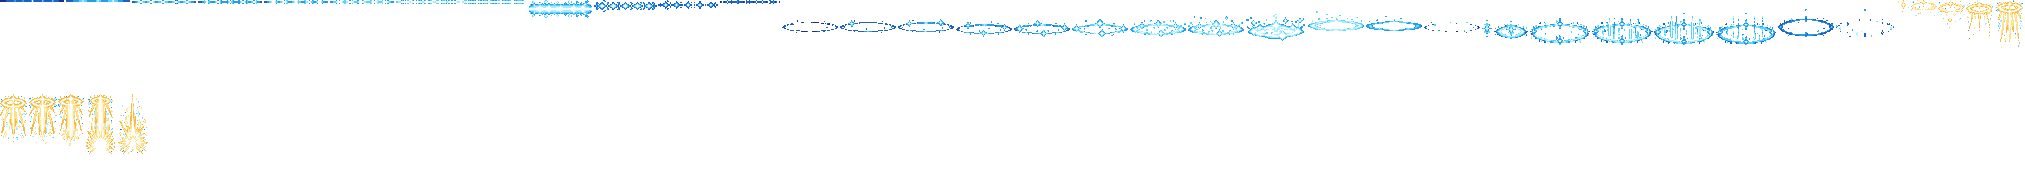
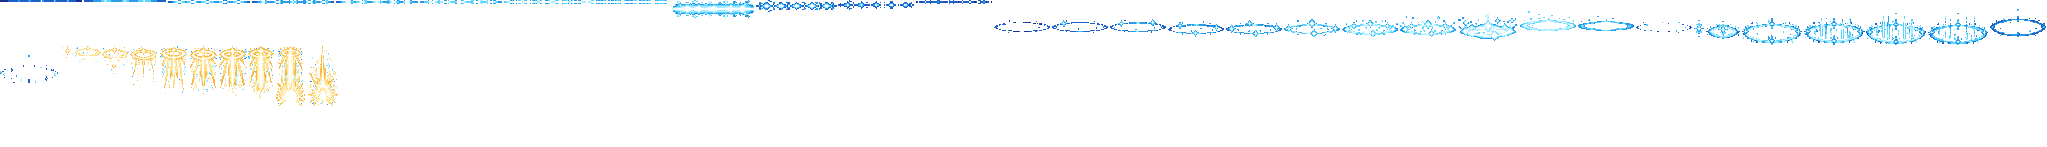
Taric: Dazzle's beam 62000 -> 80000 long
The AI casts E at the end of its range (median 73000 apart) and the
target walks out past the 62000 beam's end during the 0.75 s charge:
29% of lane-phase casts stunned the champion. At 80000 63% (whole game
34% -> 59%); the beam picture stretched to the new length.

Changed region(s): [[0.3733, 0.0, 1.0, 0.2993], [0.0, 0.3265, 0.1867, 0.7891], [0.0, 0.0, 0.4978, 0.1088]]

diff --git a/tools/art/import_taric.py b/tools/art/import_taric.py
@@ -8,7 +8,8 @@ The body comes from tools/art/export_taric.py and import_native.py. Codex drew t
 is 8x8 blocks of a 1x drawing in the cells PROMPTS.md asked for (the beam, the ally's burst and Q's circle in rows of
 four), only the pack's colours (starlight, gem violet, R's gold, the heal's mint), no half-transparent pixel. --raw
 checks that, reads the cells left to right, top to bottom and writes them as one row (assets/source/taric/
-taric_fx_<name>.png, 8x). No scaling, no palette pass and no outline (effects carry none).
+taric_fx_<name>.png, 8x). No scaling (but the beam's length, below), no palette pass and no outline (effects carry
+none).
 Placement: a point of the cell goes to a spot from the pivot (11 px over the soles), the same point in every frame
 (Codex drew each strip registered in its cells):
   - the hits (the basic attack's, Bravado's) on their cell's middle, on the upper body;
@@ -17,8 +18,10 @@ Placement: a point of the cell goes to a spot from the pivot (11 px over the sol
     column on the pivot;
   - the ground rings (Q's circle, the ally's Dazzle burst, the link's sigil) with their ellipse's middle 2 px over
     the soles (a ring round the feet);
-  - the beam, the picture of a LineRangeProjectile, centred on its 62000 rectangle and turned with it (champion-data
-    "Cone / fan"): the cell's middle on the rectangle's, its 62 drawn px from Taric to the line's end;
+  - the beam, the picture of a LineRangeProjectile, centred on its rectangle and turned with it (champion-data
+    "Cone / fan"): the cell's middle on the rectangle's. Codex drew it for a 62000 line (62 px from Taric to the
+    line's end); the sheet stretches it along the line to the kit's length (E_LENGTH, 1 px per 1000, each column
+    taken from the nearest drawn one), so it still reaches from Taric to the end;
   - the gem that flies to the ally on its violet stone (the trail behind it);
   - R's call with its cell's bottom middle on the soles (the halo high over the head).
 Durations follow the kit (league/champion/league_taric.data_champion): the beam charges in frames 1-8 for the 44
@@ -151,6 +154,16 @@ E_HIT = 44                             # the beam's hit: apply 45 - 1 ticks afte
 E_ALLY_HIT = 42                        # the ally's zone: apply 43 - 1, started 2 ticks after the beam
 STUN = 75                              # the stun's ticks
 R_WAIT = 150                           # R's call to the invulnerability
+E_DRAWN = 62000                        # the beam's length in Codex's drawing (64 px with its two end pixels)
+E_LENGTH = 80000                       # the beam's `length` in the kit
+
+
+def stretch_beam(frame):
+    """A beam frame drawn for E_DRAWN stretched along the line to E_LENGTH (1 px per 1000): each new column is the
+    nearest drawn one, so a few columns repeat and nothing is blended."""
+    w = frame.shape[1]
+    nw = w + round((E_LENGTH - E_DRAWN) / 1000)
+    return frame[:, ((np.arange(nw) + 0.5) * w / nw).astype(int)]
 
 # sprite: {tag: (strip, ms per frame)}
 FX = {
@@ -181,6 +194,8 @@ def build():
         out = {}
         for tag, (src, ms) in tags.items():
             fr = cells(src)
+            if src == "e_beam":
+                fr = [stretch_beam(f) for f in fr]
             if len(fr) != len(ms):
                 sys.exit(f"{src}: {len(fr)} frames, {len(ms)} durations")
             (ax, ay), (sx, sy) = spots(src, fr)

diff --git a/tools/art/preview_taric.py b/tools/art/preview_taric.py
@@ -124,7 +124,7 @@ def showcase(out, z=3, step=40):
     # Dazzle, on tick 12: the beam charges along the ground and bursts 44 ticks later on Darius (stunned 75 ticks);
     # round Ashe the link's burst starts 2 ticks later and hits on the same tick: Garen, beside her, is stunned too
     cast = t + tick(12)
-    fx_at(big, "e_beam", cast, x + 31, gy, ground=True)
+    fx_at(big, "e_beam", cast, x + 40, gy, ground=True)              # the middle of the 80000 line
     burst = cast + tick(44)
     fx_at(big, "e_ally", cast + tick(LINK), xa, ya, ground=True)
     for foe in (d, g):

diff --git a/README.md b/README.md
@@ -1375,7 +1375,7 @@ python tools/art/preview_veigar.py
 | 定位 | 辅助（Util），第七组的辅助；本包第七个辅助（索拉卡、蕾欧娜、迦娜、锤石、莫甘娜、娜美之后），第一个把自己的技能通过灵链在队友身边再放一次的辅助 |
 | 普攻 | 挥斧锤砸，100% 攻击力的物理伤害，射程 25000，攻击间隔 80 tick（1.33 秒），第 10 tick 命中（动作第 3 帧） |
 | 被动 | 「正气凌人」（用户选的 A：英雄联盟原版的循环）：每放一个技能（E、Q/W、R 起手），接下来 4 秒内的两次普攻攻速 +100%，改播强化挥击（第 9 tick 命中），额外造成 30 + 20% 法术强度 + 3% 最大生命值的魔法伤害（英雄联盟按护甲加伤害，这个游戏读不到护甲，换成最大生命值），加一层星光之触，并把基础技能的冷却缩短约 1 秒。这个游戏没有"减少冷却"的效果：`skill_cooldown_mult` 只是在生效时把剩余冷却压到上限 冷却 × 100 / (100 + mult)，而第一次强化普攻在放技能后 70–120 tick 才打出来，每下 +20 的话一整局模拟里只缩短过一次。改成两下分别加 2 tick 的 55 和 145（E 冷却 420 tick：第一下 337 → 270，第二下 228 → 171），同一个 buff 带相反数的 `ult_cooldown_mult`，大招不受影响；冷却缩短生效后同一批模拟从 +0.97 到 +1.68 |
-| 技能1 | E「炫光」（用户选的 A：现版的延迟光束）：60000 内有敌人时放（小兵和野怪也算，清线、打野也用；射程内有敌方英雄时朝英雄放，莫甘娜 Q 的做法），冷却 7 秒。第 12 tick 在地上射出一道长 62000、宽 18000 的星光，0.75 秒后整条线爆开：95 + 60% 法术强度 + 2% 最大生命值的魔法伤害，晕眩 1.25 秒。英雄联盟是 1 秒后爆开、宽 12000：这个游戏的英雄一秒就走出线，模拟里瞄准英雄的 E 只晕到 24%；0.75 秒、宽 18000 晕到 65% |
+| 技能1 | E「炫光」（用户选的 A：现版的延迟光束）：60000 内有敌人时放（小兵和野怪也算，清线、打野也用；射程内有敌方英雄时朝英雄放，莫甘娜 Q 的做法），冷却 7 秒。第 12 tick 在地上射出一道长 80000、宽 18000 的星光，0.75 秒后整条线爆开：95 + 60% 法术强度 + 2% 最大生命值的魔法伤害，晕眩 1.25 秒。英雄联盟是 1 秒后爆开、宽 12000：这个游戏的英雄一秒就走出线，改成 0.75 秒、宽 18000（当时的统计：瞄准英雄的 E 从 24% 到 65%）。光束原来长 62000，用户试玩时对线一次都晕不到（"AI判定都躲了"）：AI 在射程 60000 加两人身体的距离上就放（中位 73000，已经在光束尽头外），被瞄准的英雄在蓄力的 0.75 秒里往后退约 23000（放之前的 0.75 秒里基本不动），从光束尽头走出去，几乎没有往旁边躲的；逐次核对被瞄准的那个英雄，对线期（前 3 分钟）只晕到 29%，整局 34%。加长到 80000（够到 AI 放 E 的距离）后对线期 63%、整局 59%（中路 68% / 59%）；同一批里 72000 是 48% / 48%，加宽到 30000 是 58% / 58%，0.5 秒爆开是 59% / 60%。判定是离这条线段"宽度 + 约 15000"以内的英雄（两头是圆的），所以宽度管的是半边，画面比判定窄；加长只改判定和光束画面，说明文字不用改 |
 | 技能2 | Q「星光之触」，合并 W「坚毅壁垒」（用户选的 A：带灵链）。Q：30000 内有敌人时放，冷却 6 秒。离上次加层每过 5 秒攒一层（最多 3 层，在他行动时结算），强化普攻每下也加一层；Q 用掉全部层数，给自己和 30000 内的友方英雄每层回复 40 + 12% 法术强度的生命。它只回血，按对英雄放（45000）AI 每局只放 6 次，改成附近有敌人就放后每局约 21 次。W：同一次施放里、W 自己的 12 秒冷却好了时，给 60000 内随机一名友方英雄飞一颗宝石：护盾 80 + 40% 法术强度（2.5 秒），12 秒内护甲 +15，和塔里克连上灵链。灵链期间塔里克的 Q 回血、E 爆开和 R 无敌也在那名队友身边放一次（两人相距 30000–110000 时：英雄联盟的灵链 1300 码断开；队友贴着他时已经在他自己的范围里）。模拟每局英雄治疗约 31.7 次来自 Q 本身、8.4 次来自灵链，灵链的 E 每局爆开约 1.6 次 |
 | 大招 | R「宇宙之辉」（用户选的 A：原版的 2.5 秒召唤加 2.5 秒无敌）：冷却 60 秒。60000 内有敌方英雄时先"待发"10 秒（锐雯 R 的做法：大招格子是 3 tick 的空动作，加一个待发标记；没放出去就退回冷却）；待发期间他每次行动和每 0.5 秒数一次 45000 内的敌方英雄、看有没有被控的友方英雄（凯尔 R 的数法）：两名敌方英雄或一名被控的队友就放。举锤召唤星光，2.5 秒后自己和 40000 内的友方英雄（灵链队友身边也算）无敌 2.5 秒（受到的每下伤害只剩 1；两个无敌 buff 叠在一起也是 1）。每局约放 1.25 次，每次护住约 2.1 名英雄 |
 | 数值 | 攻击 75（+6）、法术强度 30（+15）、生命 1080（+110）、护甲 36（+9）、魔抗 26（+4）、移速 1000（+10），攻击间隔 1.33 秒。数值是自己设计的，用 SDK 对战模拟调：打辅助，对 5 个原版辅助（`priest`、`bard`、`enchanter`、`monk`、`taoist`），两边、三套队友阵容各 24 局，一批 720 局。初稿 −0.80；E 的延迟和宽度、Q 的施放条件改好后 +0.97；正气凌人真正缩短冷却后 +1.68，数值削回后两批 +0.77 / +0.80（同两批娜美 +0.96 / +0.60）。塔里克每局放 E 约 49 次（瞄准英雄约 19 次）、Q 约 21 次 |
@@ -1403,7 +1403,7 @@ python tools/art/preview_taric.py
 - 头（用户看待机和动图时指出三处）：第一版待机是定稿原画删行删列缩到 40 行（锐雯、阿卡丽的做法，脸那几行不删），头有 16 行，Codex 画的动作整体等比缩小后头只有 11–12 行，一放技能头就变大小（"塔里克放技能头还会变大？"）：待机改用 Codex 自己的待机帧、和动作同一比例缩。多数色把 1–3 px 的眉毛、眼睑和嘴线投掉，耳前垂下的一缕头发缩成最深的颜色、像一道黑线劈开脸（"待机帧的这个头就很奇怪"）：照 Codex 的待机帧逐格定脸（`FACE_EDITS`：每只眼睛上一格眼睑、两眼间的鼻梁留肤色、鼻尖一格阴影、嘴两格浅阴影、下巴一道轮廓，那缕头发用中间的棕色）。每帧的头各自缩，头发和下巴线帧帧不同，动起来像在变形（"gif图里看脸怎么还会变形"）：头是正的帧（两眼同一行、相距 2–4 格）先清掉自己的头，再按近侧那只眼睛贴上待机的整个头（头顶到下巴），删掉原来头发留下的 12 格以下的碎块。55 帧里 44 帧是同一个头，死亡第 2、3 帧仰倒时用自己的；代价是跑步时头发不再往后飘。
 - 跑步的交叉步和黑边（用户在游戏里看）：Codex 画的跑步 8 帧一直是近腿在前，两腿从不交替（"塔里克的走路姿势没有交叉步"）。先试过给跑步换它自己的前倾头、8 帧共用一个上半身、让 Codex 在游戏尺寸上整体精修，用户都不满意（"改的都不像塔里克了 和英雄联盟里面也不像 还没之前好"），退回这一版后选了"只修交叉步"：Codex 只在腿的范围里改（站位点下 1 行到鞋底、站位点后 12 格往前，锤头下面 +8 行往下；其余一格不许动，交回后逐格核对为 0），照英雄联盟原版重排：第 8、1、2 帧近腿着地，第 4、5、6 帧远腿着地，第 3、7 帧交叉。两条腿同色时看不出交叉（"怎么感觉交叉步不是很明显？"），第二次只给腿重新上色：远腿 8 帧都压暗（最深的褐色裤子、暗灰护腿和靴子），近腿保持银白、留一两格高光，外形一格不变。黑边（"最后去除黑边 弄干净一点"，"跑动时不干净啊 多余的像素不清理吗"）：`tidy_taric.py` 把和描边同色、贴在外轮廓里面的第二层黑线换成里面的颜色，四周没有同色的单点换成周围最多的颜色（每帧 17–53 格）；跑步再按头的位置对齐相邻帧，前后两帧一样、只有这一帧不同的格子换成前后帧的颜色（腰以上每帧 80–120 格，持续两帧以上的晃动保留）；外轮廓、脸、宝石和领巾不碰。
 - 导入：待机 6 帧用同一帧，第 3–5 帧从第 8 行往下沉一格呼吸（`BOB` 8：缝在靴子上，那两行只差 3 格描边和 12 格颜色，靴子最下面两行不动）；按眼睛色定头的位置（`EYES`），移动 8 帧的头稳在同一列（只挪了 1 帧 1 格）；`COMPLETE` 补描边（导出时已补过，这一步补 84 格）。头像截取点 (−3, −38)，在发顶；待机最高点 −28，选人卡片装得下，不设 `banpick_center`。
-- 特效用 Codex 画的 14 张（93 帧）：这次 Codex 直接按游戏尺寸画，每张是 1 倍图放大 8 倍的纯色方块、只用包里的色板（星光蓝白、宝石紫、R 的金色、治疗的薄荷绿）、没有半透明，E 光束和 W 宝石上下严格对称；强化星点 Codex 自己改过一版，只在腰间和手边、不挡身体（`p_glow_correction.txt`）。`import_taric.py --raw` 按格子切帧，不缩放、不换颜色。锚点：命中放在上半身，围着人的画面（强化星点、晕眩、回血、护盾、R 的闪光和光罩）把人形空位的底行放在脚底线，地面圈（Q 的星光圈、E 在队友身边的爆开、灵链印记）的椭圆中心放在脚底线上 2 格，E 光束是 `LineRangeProjectile` 的画面（画面中心在长 62000 的矩形中点、随施法方向转，左端在塔里克身上），W 宝石按紫色宝石定点，R 的召唤按格子底边中点放在脚底线。时长按技能：E 光束前 8 帧撑满命中前的 44 tick、第 9 帧在命中那一刻爆开；灵链队友身边的圈晚 2 tick 出现、同一 tick 爆开；晕眩星环 75 tick；R 的召唤前 8 帧撑满生效前的 150 tick，第 9–10 帧落光。E 光束、Q 星光圈、队友身边的圈和灵链印记画在人物下层。
+- 特效用 Codex 画的 14 张（93 帧）：这次 Codex 直接按游戏尺寸画，每张是 1 倍图放大 8 倍的纯色方块、只用包里的色板（星光蓝白、宝石紫、R 的金色、治疗的薄荷绿）、没有半透明，E 光束和 W 宝石上下严格对称；强化星点 Codex 自己改过一版，只在腰间和手边、不挡身体（`p_glow_correction.txt`）。`import_taric.py --raw` 按格子切帧，不缩放、不换颜色。锚点：命中放在上半身，围着人的画面（强化星点、晕眩、回血、护盾、R 的闪光和光罩）把人形空位的底行放在脚底线，地面圈（Q 的星光圈、E 在队友身边的爆开、灵链印记）的椭圆中心放在脚底线上 2 格，E 光束是 `LineRangeProjectile` 的画面（画面中心在长 80000 的矩形中点、随施法方向转，左端在塔里克身上；Codex 按 62000 画，`import_taric.py` 沿光束方向拉长到 `E_LENGTH`，每列取最近的原列），W 宝石按紫色宝石定点，R 的召唤按格子底边中点放在脚底线。时长按技能：E 光束前 8 帧撑满命中前的 44 tick、第 9 帧在命中那一刻爆开；灵链队友身边的圈晚 2 tick 出现、同一 tick 爆开；晕眩星环 75 tick；R 的召唤前 8 帧撑满生效前的 150 tick，第 9–10 帧落光。E 光束、Q 星光圈、队友身边的圈和灵链印记画在人物下层。
 - 出手时刻和动画对齐：普攻第 3 帧（第 10 tick），强化普攻第 3 帧（第 9 tick），E 第 3 帧（第 12 tick）射出光束，Q/W 第 3 帧（第 12 tick），R 的 7 帧正好 40 tick（召唤光在第 0 tick 开始）。
 - 结果：29 色，和右边像素同色的比例 36%（原版英雄 18%–46%）。待机每帧 907 个不透明像素，和维迦（798）、娜美（949）之间。
 

diff --git a/.claude/skills/tfm2-hero-mod/references/champion-data.md b/.claude/skills/tfm2-hero-mod/references/champion-data.md
@@ -465,7 +465,11 @@ collision radius of the unit tested, and for RangeEffect the caster's too)*:
 - `{"Rect": {"width": W, "height": H}}` - axis-aligned around the centre, never turned
 - `{"Line": {"width", "from_x", "from_y", "to_x", "to_y"}}` - a segment with fixed coordinates: they are
   map positions, not offsets from the projectile, so no wall can be drawn round where a hero stands
-  (league_thresh R's five walls became one circle)
+  (league_thresh R's five walls became one circle). It hits like a capsule: a champion whose centre is within
+  `width` + 15000 of the segment, round past both ends (behind the caster too). So `width` is a half-width, and a
+  picture of the whole band is 2 x `width` across *(SDK simulation, league_taric E, 2026-10-01: widths 1000, 6000,
+  18000 and 30000 hit every champion within 16000, 21000, 33000 and 45000 of the segment and none farther, up to
+  28 of 13000-39000 champion positions off)*
 - `{"DirDot": {"radius": N, "range": C}}` - a **cone**: within `radius` of the centre and at most
   acos(C / 1000) off the direction from the caster to the centre (`range` 600 = 53 degrees each side). The
   angle is the unit's centre's: the radii widen the distance only, so a big body half in the cone is missed
@@ -1970,10 +1974,16 @@ simulation 31.7 champion heals a game came from his own Q and 8.4 from the link,
 times a game. The casted shows a `heal` status icon on the ally while the link lasts.
 
 **A beam that bursts after a delay (league_taric E, Dazzle).** A `Targeting` cast on `EnemyWithoutTower` with league_morgana
-Q's aim (a random enemy champion in reach first, else the cast target): a `LineRangeProjectile` 62000 long whose hit is
+Q's aim (a random enemy champion in reach first, else the cast target): a `LineRangeProjectile` 80000 long whose hit is
 the damage and a 75-tick stun. Champions here walk out of a line in a second: with League's 1 s delay (`apply` 60) and
 width 12000, 24% of the casts aimed at a champion stunned one; `apply` 45 with width 18000 stunned in 65% (30 / 18000:
-96%). The beam's picture carries the 45-tick charge and the burst (`delay` 57).
+96%). The beam's picture carries the 45-tick charge and the burst (`delay` 57). Make the line as long as the AI casts
+it *(SDK simulation, 2026-10-01, after the user saw it miss every time in lane: "对线一次都晕不到")*: the line was 62000
+long at first, the AI casts at the 60000 `range` plus both bodies (median 73000, past the line's end), and the aimed
+champion, which had stood still for the 0.75 s before, backs off about 23000 while the beam charges, out past the end;
+almost none step aside. Checked cast by cast on the aimed champion, 29% were stunned in the first three minutes (34% over
+a game, 30% in the mid lane). 80000, about as far as the AI casts it, stunned 63% (59% over a game); 72000 48%, width
+30000 58%, `apply` 30 59%. The athletes' `skill_avoid` changed nothing (0 and 100 played the same games).
 
 **Team invulnerability 2.5 s after the call, started at the fight (league_taric R, Cosmic Radiance).** league_riven R's
 arming (the slot is a 3-tick `None` action on `EnemyChampion` that adds `r_armed` for 600 ticks; left unused, a 3-tick

diff --git a/.claude/skills/tfm2-hero-mod/references/porting-heroes.md b/.claude/skills/tfm2-hero-mod/references/porting-heroes.md
@@ -173,7 +173,7 @@ OK = direct, ~ = approximate, X = not possible in data-only mods.
 | Empowered attacks after every spell, each cutting the cooldowns (Taric's Bravado) | two caster charges and an attack-speed buff from every spell; the cut as growing 2-tick `skill_cooldown_mult` bursts (55, 145), `ult_cooldown_mult` of the opposite sign keeping the ult out (champion-data "Two quick attacks after every spell") | ~ |
 | Stacks that fill over time (Taric Q) | three caster timers read at his actions (a stack for each 5 s since the last grant), Bravado hits add one; cast on `EnemyWithoutTower` near him so it goes off in every fight | ~ |
 | Spells also cast from a linked ally (Taric W) | an `AddCasted` on the ally reads his cast flags every tick and lobs a hidden projectile onto the ally to start the Q heal, an E stun circle (no beam can leave from the ally) or the R circle there, only while the two are 30000-110000 apart (champion-data "A link that repeats his spells") | ~ |
-| Line stun after a delay (Taric E) | `LineRangeProjectile` with `apply` 45 and a wider line: League's 1 s let walking champions out | OK |
+| Line stun after a delay (Taric E) | `LineRangeProjectile` with `apply` 45, a wider line, and as long as the AI casts it (80000): League's 1 s let walking champions out, a 62000 line let them back off past its end | OK |
 | Team invulnerability after a delay (Taric R) | armed on the approach, started at two enemy champions or a crowd-controlled ally near him; `damaged_reduce` 100 for 2.5 s after 2.5 s | ~ |
 | Attack range that grows with level (Tristana's Draw a Bead) | +2500 `range` at levels 3 (`SwitchByLevel3`), 6, 9 and 12 (league_kayle's health probe, run only in her skill slots - an attack's `FixedAttack` crits - under a 99% damage reduction, two passes in a fight); no stage came early in the simulation, some came late (champion-data "Attack range at levels 3, 6, 9 and 12") | ~ |
 | Units her basic attacks kill explode (Tristana's Explosive Charge passive) | a hidden lob fired with the shot lands where the target stood and reads league_jinx's kill check there (champion-data "Units her basic attack kills explode") | OK |
